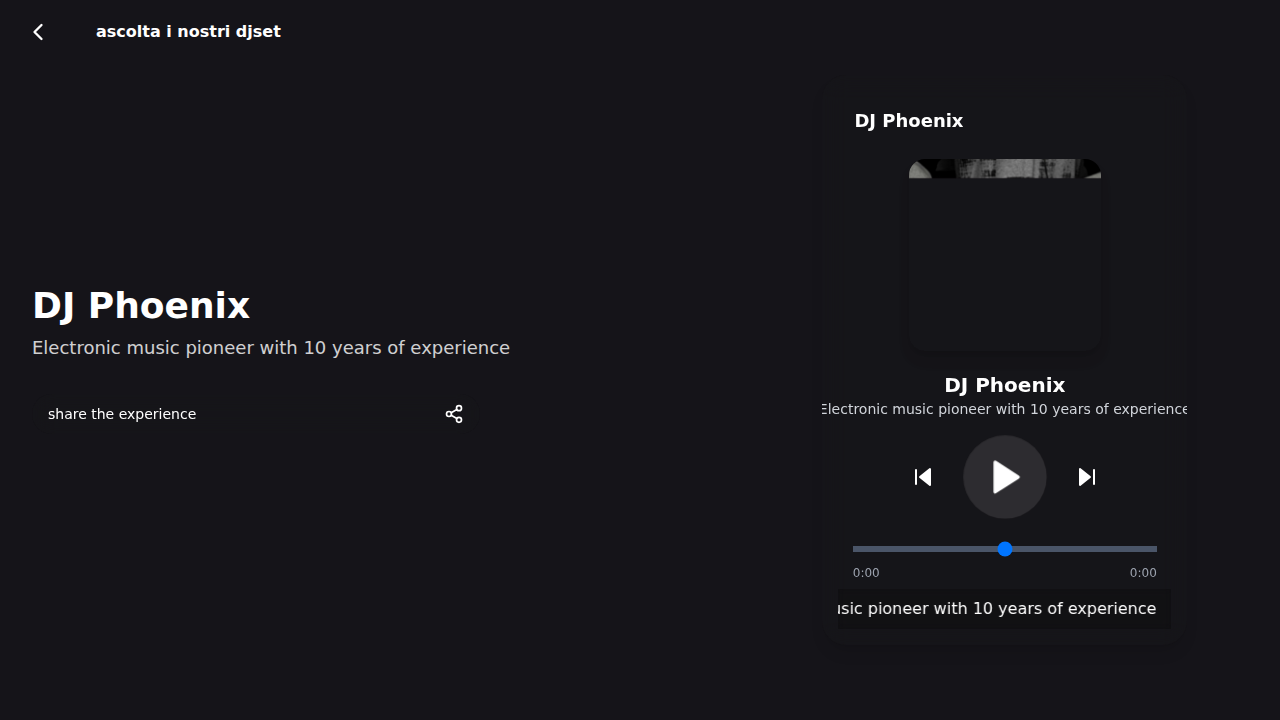
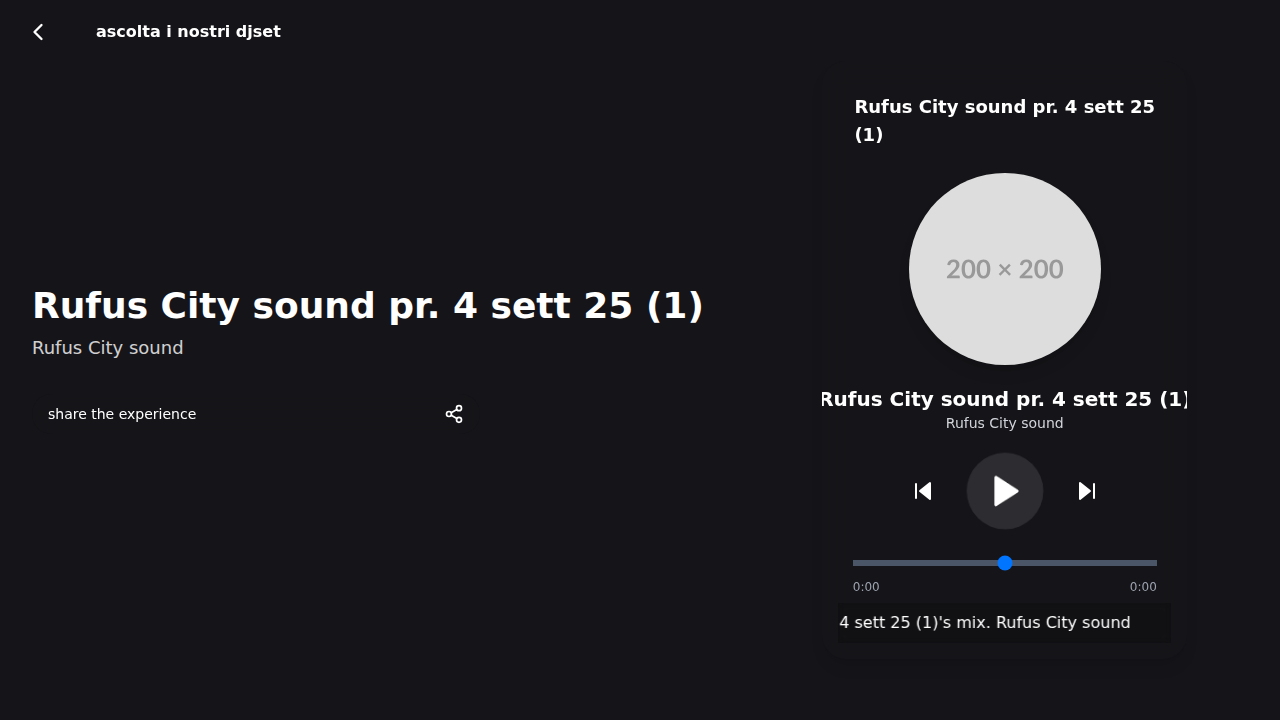
feat: Update resident data and player styling
This commit implements the user's request to update the mock data for the single resident page and adjust the styling of the DJ image in the player.

- Updates the `residents` array in `SingleResidentPage.tsx` with new names, audio URLs, and image URLs for residents with IDs 1 and 2.
- Modifies the `ResidentPlayer.tsx` component to apply the `rounded-full` class to the DJ image, making it a full circle.

diff --git a/src/pages/SingleResidentPage.tsx b/src/pages/SingleResidentPage.tsx
@@ -9,31 +9,31 @@ import ShareBar from '../components/ui/ShareBar';
 const residents: Resident[] = [
   {
     id: '1',
-    name: 'DJ Phoenix',
-    bio: 'Electronic music pioneer with 10 years of experience',
-    image: 'https://res.cloudinary.com/thinkdigital/image/upload/v1748272704/pexels-isabella-mendes-107313-860707_qjh3q1.jpg',
+    name: 'Rufus City sound pr. 4 sett 25 (1)',
+    bio: 'Rufus City sound',
+    image: 'https://placehold.co/1200x1200',
     shows: ['Friday Night Mix', 'Deep Dive Sessions'],
     socialLinks: {
       instagram: 'https://instagram.com/djphoenix',
       soundcloud: 'https://soundcloud.com/djphoenix'
     },
-    audioUrl: 'https://res.cloudinary.com/thinkdigital/video/upload/v1759243379/deadmau5_-_Strobe_tKi9Z-f6qX4_ntmclt.mp3',
-    backgroundImageUrl: 'https://res.cloudinary.com/thinkdigital/image/upload/v1748272704/pexels-isabella-mendes-107313-860707_qjh3q1.jpg',
-    djImageUrl: 'https://res.cloudinary.com/thinkdigital/image/upload/v1748272704/pexels-isabella-mendes-107313-860707_qjh3q1.jpg'
+    audioUrl: 'https://audio.com/lapo-ristori/audio/rufus-city-sound-pr-4-sett-25-1',
+    backgroundImageUrl: 'https://placehold.co/1200x1200',
+    djImageUrl: 'https://placehold.co/200x200'
   },
   {
     id: '2',
-    name: 'Luna Beats',
-    bio: 'Specializing in ambient and downtempo',
-    image: 'https://res.cloudinary.com/thinkdigital/image/upload/v1748272704/pexels-isabella-mendes-107313-860707_qjh3q1.jpg',
+    name: 'A. Anedda Disco Spektrum',
+    bio: 'A. Anedda Disco Spektrum',
+    image: 'https://placehold.co/1200x1200',
     shows: ['Midnight Chill', 'Sunday Sunrise'],
     socialLinks: {
       instagram: 'https://instagram.com/lunabeats',
       mixcloud: 'https://mixcloud.com/lunabeats'
     },
-    audioUrl: 'https://res.cloudinary.com/thinkdigital/video/upload/v1759243379/deadmau5_-_Strobe_tKi9Z-f6qX4_ntmclt.mp3',
-    backgroundImageUrl: 'https://res.cloudinary.com/thinkdigital/image/upload/v1748272704/pexels-isabella-mendes-107313-860707_qjh3q1.jpg',
-    djImageUrl: 'https://res.cloudinary.com/thinkdigital/image/upload/v1748272704/pexels-isabella-mendes-107313-860707_qjh3q1.jpg'
+    audioUrl: 'https://audio.com/lapo-ristori/audio/a-anedda-disco-spektrum-22-agosto-25-1',
+    backgroundImageUrl: 'https://placehold.co/1200x1200',
+    djImageUrl: 'https://placehold.co/200x200'
   }
 ];
 

diff --git a/src/components/music/ResidentPlayer.tsx b/src/components/music/ResidentPlayer.tsx
@@ -133,7 +133,7 @@ const ResidentPlayer: React.FC<ResidentPlayerProps> = ({ resident }) => {
         <PlayerHeader playlistName={resident.name} />
 
         <div className="flex-1 flex flex-col items-center justify-center text-center gap-3 py-2">
-          <img src={resident.djImageUrl} alt={resident.name} className="w-40 h-40 xl:w-48 xl:h-48 rounded-2xl object-cover shadow-lg mb-2" />
+          <img src={resident.djImageUrl} alt={resident.name} className="w-40 h-40 xl:w-48 xl:h-48 rounded-full object-cover shadow-lg mb-2" />
           <div className="min-w-0">
             <p className="text-xl font-bold truncate">{resident.name}</p>
             <p className="text-sm text-gray-300 truncate">{resident.bio}</p>

diff --git a/jules-scratch/verification/verify_resident_page.py b/jules-scratch/verification/verify_resident_page.py
@@ -12,9 +12,10 @@ def verify_resident_page(page: Page):
     body = page.locator("body")
     expect(body).to_have_css("background-image", re.compile(r"url\("))
 
-    # Check for DJ image in the player
-    dj_image = page.locator("img[alt='DJ Phoenix']")
+    # Check for DJ image in the player with rounded-full class
+    dj_image = page.locator("img[alt='Rufus City sound pr. 4 sett 25 (1)']")
     expect(dj_image).to_be_visible()
+    expect(dj_image).to_have_class(re.compile(r"rounded-full"))
 
     # Take a screenshot
     page.screenshot(path="jules-scratch/verification/resident_page.png")
